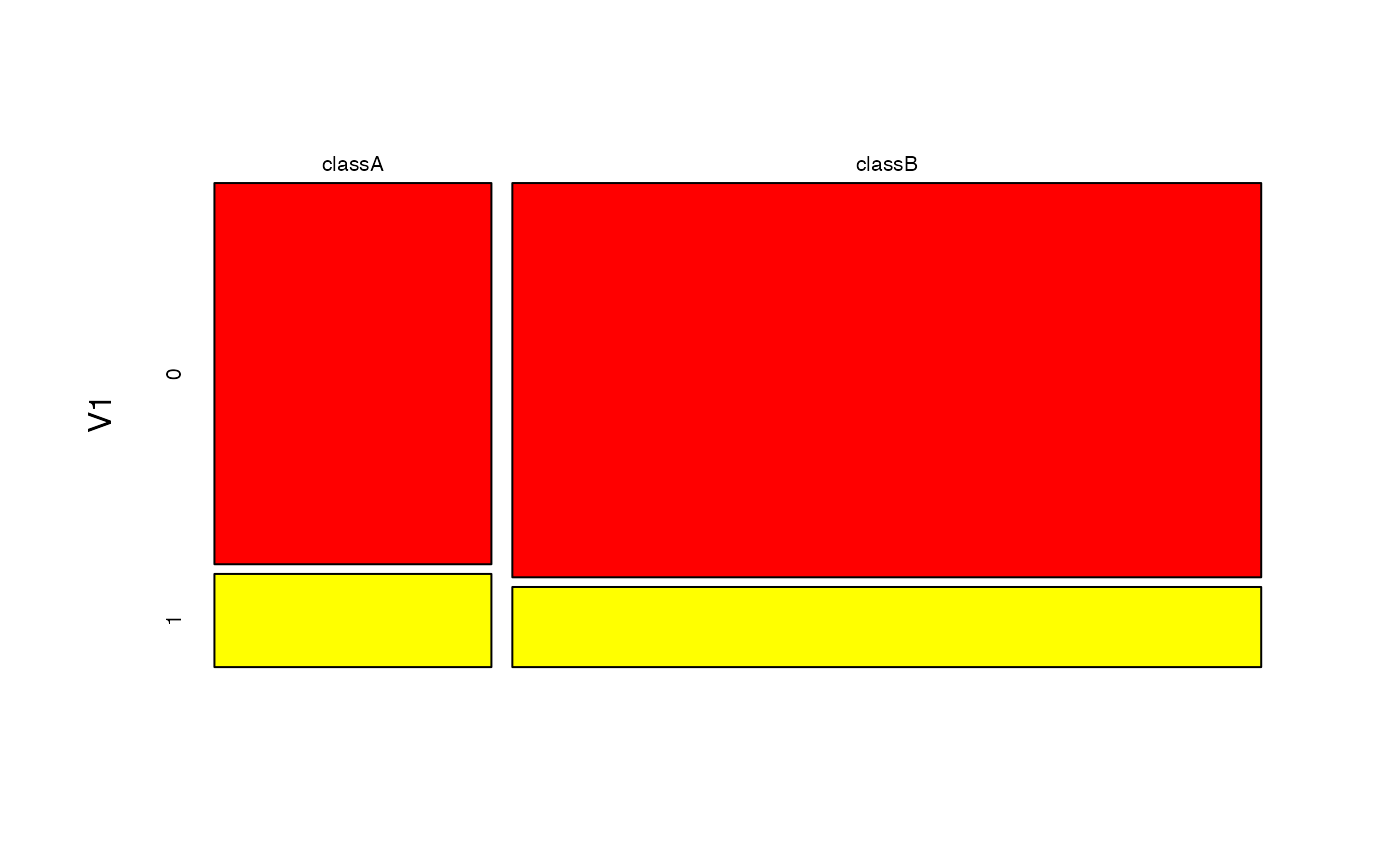
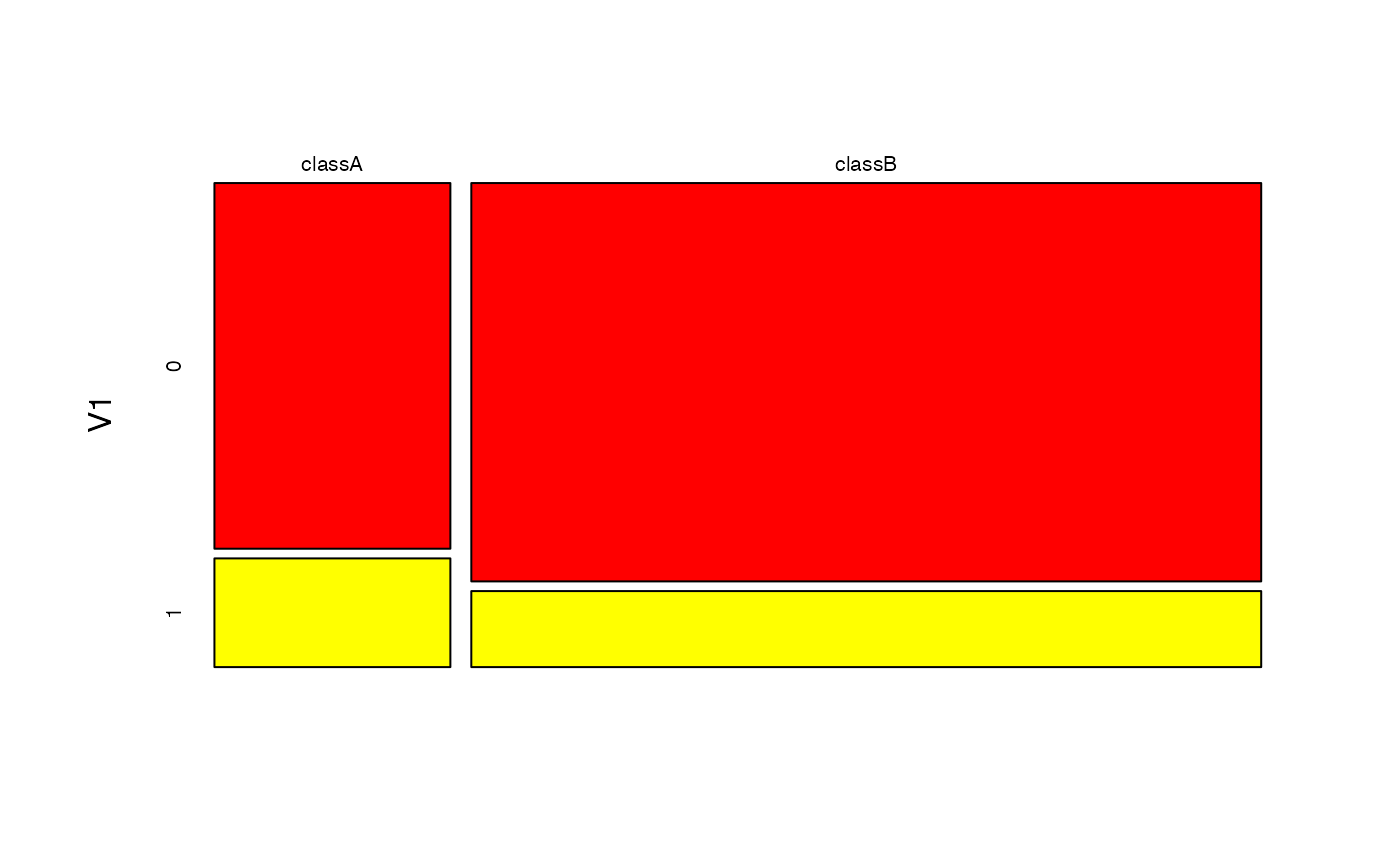
Update specialized naive bayes vignette

Changed region(s): [[0.1536, 0.1873, 0.9214, 0.7803], [0.5836, 0.1873, 0.645, 0.2185], [0.215, 0.1873, 0.2764, 0.2185]]

diff --git a/docs/articles/specialized_naive_bayes.html b/docs/articles/specialized_naive_bayes.html
@@ -193,29 +193,29 @@ features. We then train the Bernoulli Naive Bayes model using the
 <span class="co">## - Samples: 100 </span>
 <span class="co">## - Features: 10 </span>
 <span class="co">## - Prior probabilities: </span>
-<span class="co">##     - classA: 0.27</span>
-<span class="co">##     - classB: 0.73</span>
+<span class="co">##     - classA: 0.23</span>
+<span class="co">##     - classB: 0.77</span>
 <span class="co">## </span>
 <span class="co">## --------------------------------------------------------------------------------</span></code></pre>
 <div class="sourceCode" id="cb8"><pre class="downlit sourceCode r">
 <code class="sourceCode R"><span class="fu"><a href="https://rdrr.io/r/utils/head.html" class="external-link">head</a></span><span class="op">(</span><span class="fu"><a href="https://rdrr.io/r/stats/predict.html" class="external-link">predict</a></span><span class="op">(</span><span class="va">bnb</span>, newdata <span class="op">=</span> <span class="va">M</span>, type <span class="op">=</span> <span class="st">"prob"</span><span class="op">)</span><span class="op">)</span> </code></pre></div>
-<pre><code><span class="co">##         classA    classB</span>
-<span class="co">## [1,] 0.3909230 0.6090770</span>
-<span class="co">## [2,] 0.2296137 0.7703863</span>
-<span class="co">## [3,] 0.2961686 0.7038314</span>
-<span class="co">## [4,] 0.3139133 0.6860867</span>
-<span class="co">## [5,] 0.3894507 0.6105493</span>
-<span class="co">## [6,] 0.2440261 0.7559739</span></code></pre>
+<pre><code><span class="co">##          classA    classB</span>
+<span class="co">## [1,] 0.02887266 0.9711273</span>
+<span class="co">## [2,] 0.25830488 0.7416951</span>
+<span class="co">## [3,] 0.31777260 0.6822274</span>
+<span class="co">## [4,] 0.03205099 0.9679490</span>
+<span class="co">## [5,] 0.42049830 0.5795017</span>
+<span class="co">## [6,] 0.03811009 0.9618899</span></code></pre>
 <div class="sourceCode" id="cb10"><pre class="downlit sourceCode r">
 <code class="sourceCode R"><span class="co"># Equivalently</span>
 <span class="fu"><a href="https://rdrr.io/r/utils/head.html" class="external-link">head</a></span><span class="op">(</span><span class="va">bnb</span> <span class="op"><a href="../reference/infix_class_prob.html">%prob%</a></span> <span class="va">M</span><span class="op">)</span></code></pre></div>
-<pre><code><span class="co">##         classA    classB</span>
-<span class="co">## [1,] 0.3909230 0.6090770</span>
-<span class="co">## [2,] 0.2296137 0.7703863</span>
-<span class="co">## [3,] 0.2961686 0.7038314</span>
-<span class="co">## [4,] 0.3139133 0.6860867</span>
-<span class="co">## [5,] 0.3894507 0.6105493</span>
-<span class="co">## [6,] 0.2440261 0.7559739</span></code></pre>
+<pre><code><span class="co">##          classA    classB</span>
+<span class="co">## [1,] 0.02887266 0.9711273</span>
+<span class="co">## [2,] 0.25830488 0.7416951</span>
+<span class="co">## [3,] 0.31777260 0.6822274</span>
+<span class="co">## [4,] 0.03205099 0.9679490</span>
+<span class="co">## [5,] 0.42049830 0.5795017</span>
+<span class="co">## [6,] 0.03811009 0.9618899</span></code></pre>
 <div class="sourceCode" id="cb12"><pre class="downlit sourceCode r">
 <code class="sourceCode R"><span class="co"># Visualise marginal distributions</span>
 <span class="fu"><a href="https://rdrr.io/r/graphics/plot.default.html" class="external-link">plot</a></span><span class="op">(</span><span class="va">bnb</span>, which <span class="op">=</span> <span class="st">"V1"</span>, prob <span class="op">=</span> <span class="st">"marginal"</span><span class="op">)</span></code></pre></div>
@@ -223,17 +223,17 @@ features. We then train the Bernoulli Naive Bayes model using the
 <div class="sourceCode" id="cb13"><pre class="downlit sourceCode r">
 <code class="sourceCode R"><span class="co"># Obtain model coefficients</span>
 <span class="fu"><a href="https://rdrr.io/r/stats/coef.html" class="external-link">coef</a></span><span class="op">(</span><span class="va">bnb</span><span class="op">)</span></code></pre></div>
-<pre><code><span class="co">##      classA:0  classA:1  classB:0  classB:1</span>
-<span class="co">## V1  0.8035714 0.1964286 0.8310811 0.1689189</span>
-<span class="co">## V2  0.6964286 0.3035714 0.7500000 0.2500000</span>
-<span class="co">## V3  0.8035714 0.1964286 0.7770270 0.2229730</span>
-<span class="co">## V4  0.8035714 0.1964286 0.8445946 0.1554054</span>
-<span class="co">## V5  0.8035714 0.1964286 0.8445946 0.1554054</span>
-<span class="co">## V6  0.7678571 0.2321429 0.7905405 0.2094595</span>
-<span class="co">## V7  0.7321429 0.2678571 0.7905405 0.2094595</span>
-<span class="co">## V8  0.8392857 0.1607143 0.7364865 0.2635135</span>
-<span class="co">## V9  0.8035714 0.1964286 0.7905405 0.2094595</span>
-<span class="co">## V10 0.8392857 0.1607143 0.7770270 0.2229730</span></code></pre>
+<pre><code><span class="co">##      classA:0   classA:1  classB:0  classB:1</span>
+<span class="co">## V1  0.7708333 0.22916667 0.8397436 0.1602564</span>
+<span class="co">## V2  0.7708333 0.22916667 0.7115385 0.2884615</span>
+<span class="co">## V3  0.7708333 0.22916667 0.7628205 0.2371795</span>
+<span class="co">## V4  0.9791667 0.02083333 0.7500000 0.2500000</span>
+<span class="co">## V5  0.7708333 0.22916667 0.8397436 0.1602564</span>
+<span class="co">## V6  0.8541667 0.14583333 0.8141026 0.1858974</span>
+<span class="co">## V7  0.8125000 0.18750000 0.8012821 0.1987179</span>
+<span class="co">## V8  0.9791667 0.02083333 0.8269231 0.1730769</span>
+<span class="co">## V9  0.8541667 0.14583333 0.7628205 0.2371795</span>
+<span class="co">## V10 0.7708333 0.22916667 0.8397436 0.1602564</span></code></pre>
 <p><strong>Equivalent calculation with naive_bayes
 function:</strong></p>
 <div class="sourceCode" id="cb15"><pre class="downlit sourceCode r">
@@ -242,13 +242,13 @@ function:</strong></p>
 <span class="co"># sapply(df, class)</span>
 <span class="va">nb</span> <span class="op">&lt;-</span> <span class="fu"><a href="../reference/naive_bayes.html">naive_bayes</a></span><span class="op">(</span><span class="va">df</span>, <span class="va">y</span>, laplace <span class="op">=</span> <span class="va">laplace</span><span class="op">)</span>
 <span class="fu"><a href="https://rdrr.io/r/utils/head.html" class="external-link">head</a></span><span class="op">(</span><span class="va">nb</span> <span class="op"><a href="../reference/infix_class_prob.html">%prob%</a></span> <span class="va">df</span><span class="op">)</span></code></pre></div>
-<pre><code><span class="co">##         classA    classB</span>
-<span class="co">## [1,] 0.3909230 0.6090770</span>
-<span class="co">## [2,] 0.2296137 0.7703863</span>
-<span class="co">## [3,] 0.2961686 0.7038314</span>
-<span class="co">## [4,] 0.3139133 0.6860867</span>
-<span class="co">## [5,] 0.3894507 0.6105493</span>
-<span class="co">## [6,] 0.2440261 0.7559739</span></code></pre>
+<pre><code><span class="co">##          classA    classB</span>
+<span class="co">## [1,] 0.02887266 0.9711273</span>
+<span class="co">## [2,] 0.25830488 0.7416951</span>
+<span class="co">## [3,] 0.31777260 0.6822274</span>
+<span class="co">## [4,] 0.03205099 0.9679490</span>
+<span class="co">## [5,] 0.42049830 0.5795017</span>
+<span class="co">## [6,] 0.03811009 0.9618899</span></code></pre>
 </div>
 <div class="section level2">
 <h2 id="multinomial-naive-bayes">3) Multinomial Naive Bayes<a class="anchor" aria-label="anchor" href="#multinomial-naive-bayes"></a>
@@ -325,12 +325,12 @@ function.</p>
 <span class="co">## word2 0.3099002 0.1177446</span>
 <span class="co">## word3 0.4710368 0.4295191</span></code></pre>
 <div class="sourceCode" id="cb28"><pre class="downlit sourceCode r">
-<code class="sourceCode R"><span class="co"># Compare</span>
-<span class="fu"><a href="https://rdrr.io/r/base/Round.html" class="external-link">round</a></span><span class="op">(</span><span class="fu"><a href="https://rdrr.io/r/base/cbind.html" class="external-link">cbind</a></span><span class="op">(</span>non_spam <span class="op">=</span> <span class="va">word_prob_non_spam</span>, spam <span class="op">=</span> <span class="va">word_prob_spam</span><span class="op">)</span>, <span class="fl">3</span><span class="op">)</span></code></pre></div>
-<pre><code><span class="co">##      non_spam  spam</span>
-<span class="co">## [1,]    0.219 0.452</span>
-<span class="co">## [2,]    0.307 0.100</span>
-<span class="co">## [3,]    0.473 0.447</span></code></pre>
+<code class="sourceCode R"><span class="co"># Compare estimates to the true probabilities</span>
+<span class="fu"><a href="https://rdrr.io/r/base/Round.html" class="external-link">round</a></span><span class="op">(</span><span class="fu"><a href="https://rdrr.io/r/base/cbind.html" class="external-link">cbind</a></span><span class="op">(</span>non_spam <span class="op">=</span> <span class="va">word_prob_non_spam</span>, spam <span class="op">=</span> <span class="va">word_prob_spam</span><span class="op">)</span>, <span class="fl">4</span><span class="op">)</span></code></pre></div>
+<pre><code><span class="co">##      non_spam   spam</span>
+<span class="co">## [1,]   0.2193 0.4522</span>
+<span class="co">## [2,]   0.3074 0.1004</span>
+<span class="co">## [3,]   0.4732 0.4473</span></code></pre>
 </div>
 <div class="section level2">
 <h2 id="poisson-naive-bayes">4) Poisson Naive Bayes<a class="anchor" aria-label="anchor" href="#poisson-naive-bayes"></a>
